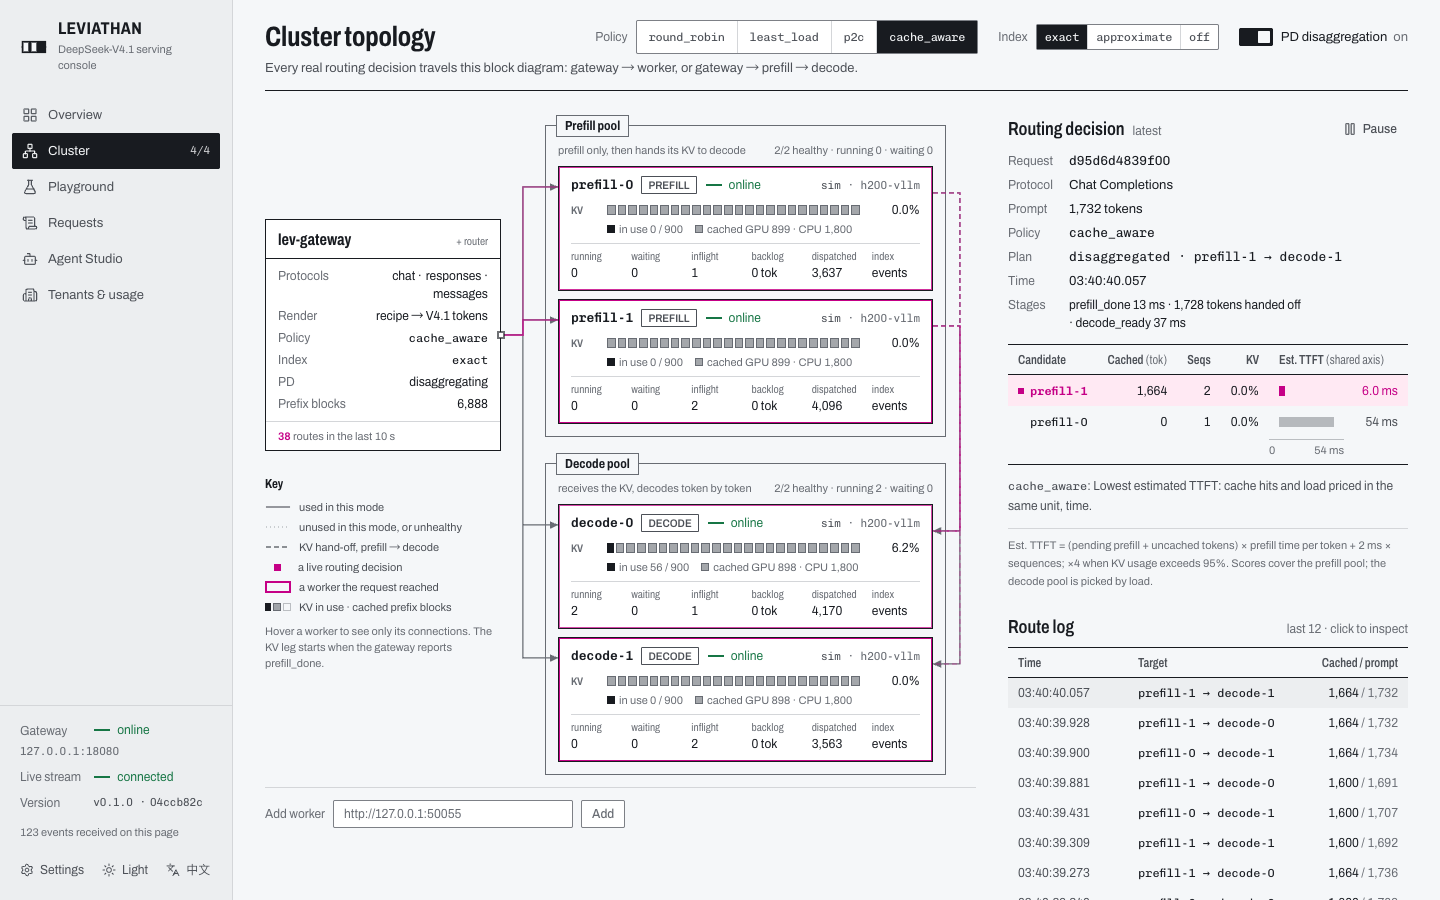
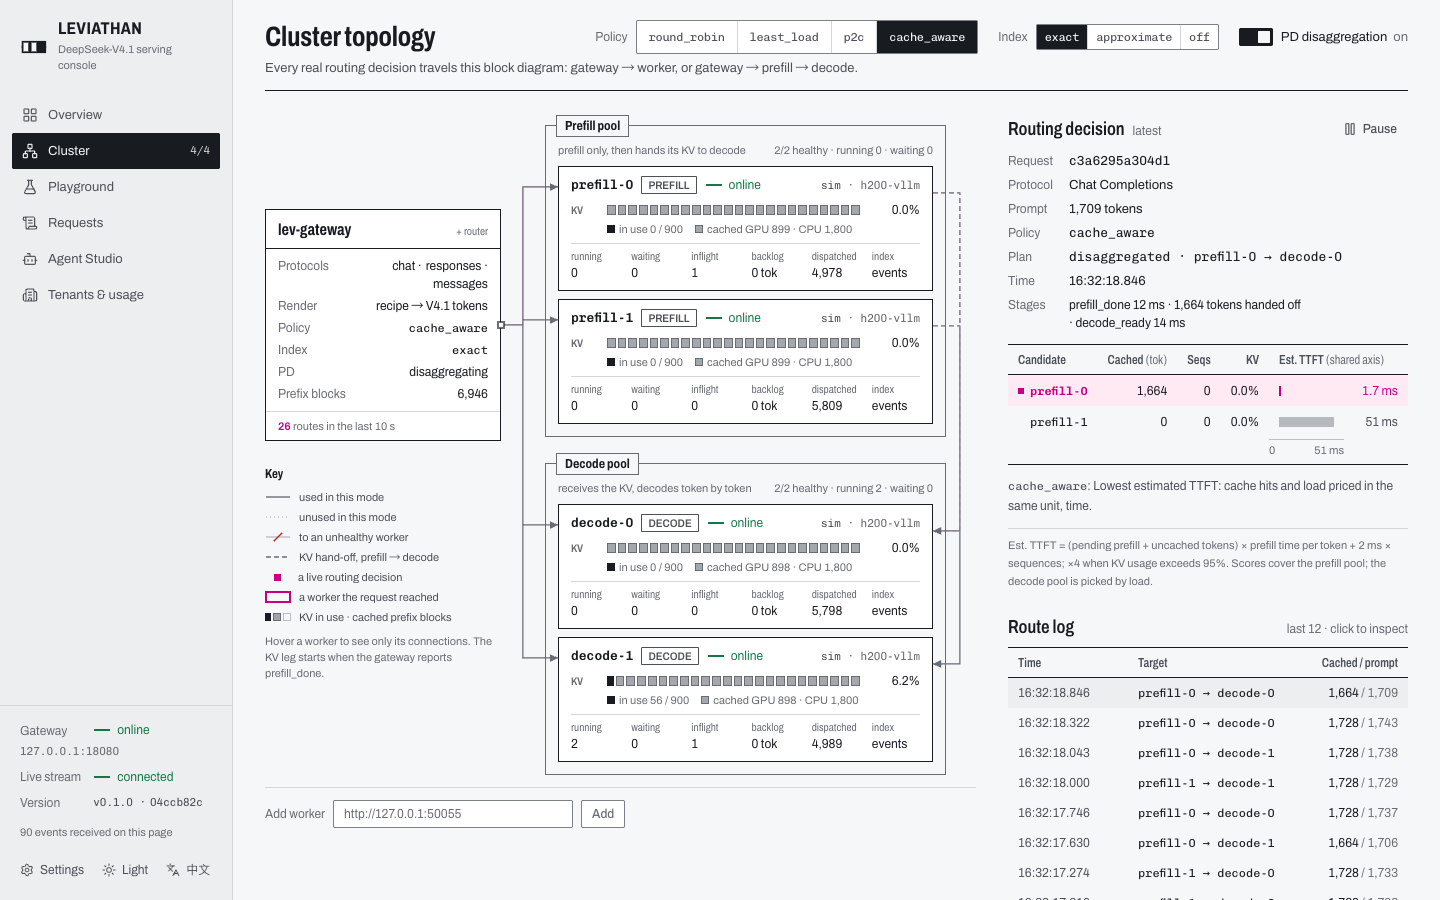
feat(console): finish-review fixes
Inspector timing line in Archivo, Overview cluster table inside the content
edge, values bound to units, unhealthy nets struck instead of dotted;
refreshed screenshots.

diff --git a/apps/console/src/pages/OverviewPage.tsx b/apps/console/src/pages/OverviewPage.tsx
@@ -384,15 +384,15 @@ function ClusterSummary() {
         </div>
       ) : (
         <>
-          <table className="table-3l">
+          <table className="table-3l table-fixed">
             <thead>
               <tr>
-                <th>{k.worker}</th>
-                <th>{k.role}</th>
-                <th>{k.state}</th>
-                <th className="w-[30%]">{k.kv}</th>
-                <th className="num">{k.seqs}</th>
-                <th className="num">{k.inflight}</th>
+                <th className="w-[26%]">{k.worker}</th>
+                <th className="w-[19%]">{k.role}</th>
+                <th className="w-[9%]">{k.state}</th>
+                <th>{k.kv}</th>
+                <th className="num w-[13%]">{k.seqs}</th>
+                <th className="num w-[12%]">{k.inflight}</th>
               </tr>
             </thead>
             <tbody>
@@ -403,14 +403,22 @@ function ClusterSummary() {
                     <RoleTag role={worker.role} />
                   </td>
                   <td>
-                    <StatusMark {...workerLineState(worker, t)} />
+                    {(() => {
+                      const line = workerLineState(worker, t);
+                      return (
+                        <span title={line.label}>
+                          <StatusMark state={line.state} tone={line.tone} />
+                          <span className="sr-only">{line.label}</span>
+                        </span>
+                      );
+                    })()}
                   </td>
                   <td>
                     <div className="flex items-center gap-2">
                       <KvCells
                         usage={worker.load_age_ms === null ? null : worker.load.kv_usage}
                         cached={worker.total_blocks > 0 && worker.index_source !== "off" ? worker.gpu_blocks / worker.total_blocks : null}
-                        cells={10}
+                        cells={8}
                         size="sm"
                         className="flex-1"
                       />

diff --git a/apps/console/src/pages/cluster/DecisionPanel.tsx b/apps/console/src/pages/cluster/DecisionPanel.tsx
@@ -141,8 +141,11 @@ function Decision({ route, stages, t }: { route: RouteEvent; stages: StageEvent[
       k.facts.stages,
       prefillDone ? (
         <span className="inline-flex flex-wrap gap-x-1 text-xs">
-          <span className="whitespace-nowrap">{k.handoff(fmtInt(prefillDone.transferred_tokens), fmtMs(prefillDone.duration_ms).replace(" ", "\u00a0"))}</span>
-          {decodeReady ? <span className="whitespace-nowrap">· {k.decodeReady(fmtMs(decodeReady.duration_ms).replace(" ", "\u00a0"))}</span> : null}
+          <span className="whitespace-nowrap">
+            {k.handoff(fmtInt(prefillDone.transferred_tokens), fmtMs(prefillDone.duration_ms).replace(" ", "\u00a0"))}
+            {decodeReady ? " ·" : ""}
+          </span>
+          {decodeReady ? <span className="whitespace-nowrap">{k.decodeReady(fmtMs(decodeReady.duration_ms).replace(" ", "\u00a0"))}</span> : null}
         </span>
       ) : (
         <span className="text-ink-3">{k.stagesPending}</span>

diff --git a/apps/console/DESIGN.md b/apps/console/DESIGN.md
@@ -302,7 +302,7 @@ Sidebar items are 36px tall with a 2px radius and a 16px lucide icon at stroke 1
 A right-hand sheet (up to 760px or 92vw) with a 1px ink left edge and the overlay shadow, over the scrim. The header has a condensed headline and an ink-3 description, closed by a 1.5px ink rule. It slides in over 220ms with expo-out (24px) and out over 160ms ease-in.
 
 ### Block Diagram (signature)
-A functional block diagram of the cluster. The gateway block has a 1.5px ink frame and a parameter list. Pool enclosures use 0.75px frames with boxed name tabs (ink-3 when the pool is active, strong rule when it is not). Worker blocks are 1px ink frames on sheet, with a mono ID, role tag, status mark, KV cells and a metric grid. An unhealthy worker gets a control-edge frame, 80% opacity and a struck ID. Nets are orthogonal SVG paths. In-use nets are ink-3 at 1.25px. Unused or unhealthy nets are strong rule, dotted (1 / 3). The KV hand-off net from prefill to decode is dashed (5 / 3). Each real `route` event launches a magenta square packet that rides the same SVG path (650ms request leg, 520ms KV leg, ease-in-out, with a four-step fading trail, capped at 48). The net also flashes magenta at 2px and fades over 900ms. Under `prefers-reduced-motion`, no packets run. The chosen net is instead highlighted in magenta for 1s and then removed. A figure key beside the diagram explains every line form and swatch. Hovering a worker dims everything unrelated to it.
+A functional block diagram of the cluster. The gateway block has a 1.5px ink frame and a parameter list. Pool enclosures use 0.75px frames with boxed name tabs (ink-3 when the pool is active, strong rule when it is not). Worker blocks are 1px ink frames on sheet, with a mono ID, role tag, status mark, KV cells and a metric grid. An unhealthy worker gets a control-edge frame, 80% opacity and a struck ID. Nets are orthogonal SVG paths. In-use nets are ink-3 at 1.25px. Unused nets are strong rule, dotted (1 / 3). A net to an unhealthy worker is a solid strong-rule line struck by a short bad-red diagonal next to the worker, so every line form keeps exactly one meaning. The KV hand-off net from prefill to decode is dashed (5 / 3). Each real `route` event launches a magenta square packet that rides the same SVG path (650ms request leg, 520ms KV leg, ease-in-out, with a four-step fading trail, capped at 48). The net also flashes magenta at 2px and fades over 900ms. Under `prefers-reduced-motion`, no packets run. The chosen net is instead highlighted in magenta for 1s and then removed. A figure key beside the diagram explains every line form and swatch. Hovering a worker dims everything unrelated to it.
 
 ### Characteristic Curve
 A framed plot with a strong-rule 0.75px frame, a dotted major grid (1 / 3), a solid zero line and clock-time ticks in 10.5px ink-3. Gaps mark buckets with no value. A hatched band marks the time the console was not observing, and is labelled as such. A 3px ink band on the time axis marks the window the headline figure covers. A secondary curve (p99 beside p50) is lighter, never dashed.
